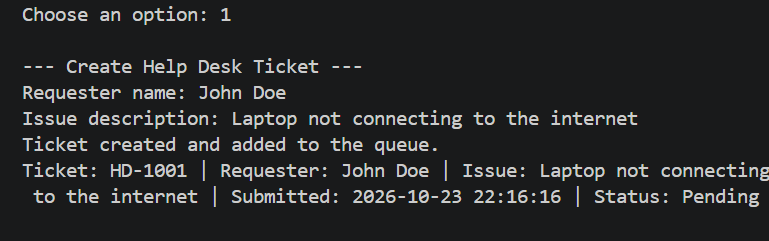
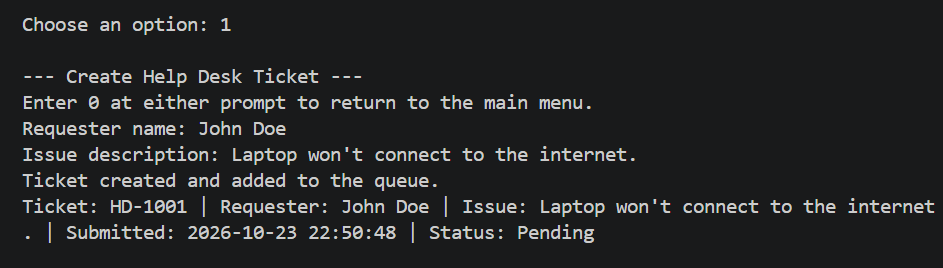
Update project features

Changed region(s): [[0.0, 0.3485, 1.0, 0.9004], [0.0312, 0.2324, 0.4681, 0.3195], [0.0, 0.029, 0.3121, 0.1162]]

diff --git a/README.md b/README.md
@@ -104,16 +104,35 @@ Select a menu option by entering its number. Creating a ticket automatically enq
 
 *Stored records show each ticket's number, requester, issue, submission time, and status.*
 
-### Additional Required Screenshots
+### Searching for a Ticket
 
-Add readable screenshots captured from the running application for:
+![Searching for a ticket by number and displaying its details](screenshots/ticket-search.png)
 
-- Queue operations, including queue display, peek, and processing/dequeue.
-- FIFO behavior, showing tickets processed in the order they were added.
-- Bubble Sort by requester name, showing records before and after sorting.
-- Insertion Sort by ticket number, showing records before and after sorting.
+*Searching by ticket number displays the matching ticket's details.*
 
-Save each screenshot in the `screenshots/` folder and add it here with a short caption. Use actual program output, not mockups.
+### Queue Operations
+
+![Queue display, peek, and processing operations](screenshots/queue-operations.png)
+
+*The waiting queue is displayed in FIFO order, peek shows the next ticket without removing it, and processing removes and marks the first ticket as processed.*
+
+### FIFO Behavior
+
+![Tickets displayed in their first-in, first-out arrival order](screenshots/fifo-behavior.png)
+
+*The waiting tickets are listed in the order they arrived, with the earliest ticket at the front of the queue.*
+
+### Bubble Sort by Requester Name
+
+![Bubble Sort showing ticket records before and after sorting by requester name](screenshots/sort-by-name.png)
+
+*The records are alphabetized by requester name while the FIFO queue order remains unchanged.*
+
+### Insertion Sort by Ticket Number
+
+![Insertion Sort showing ticket records before and after sorting by ticket number](screenshots/sort-by-ticket-number.png)
+
+*The records are arranged by ticket number while the FIFO queue order remains unchanged.*
 
 ### Returning to the Main Menu
 
